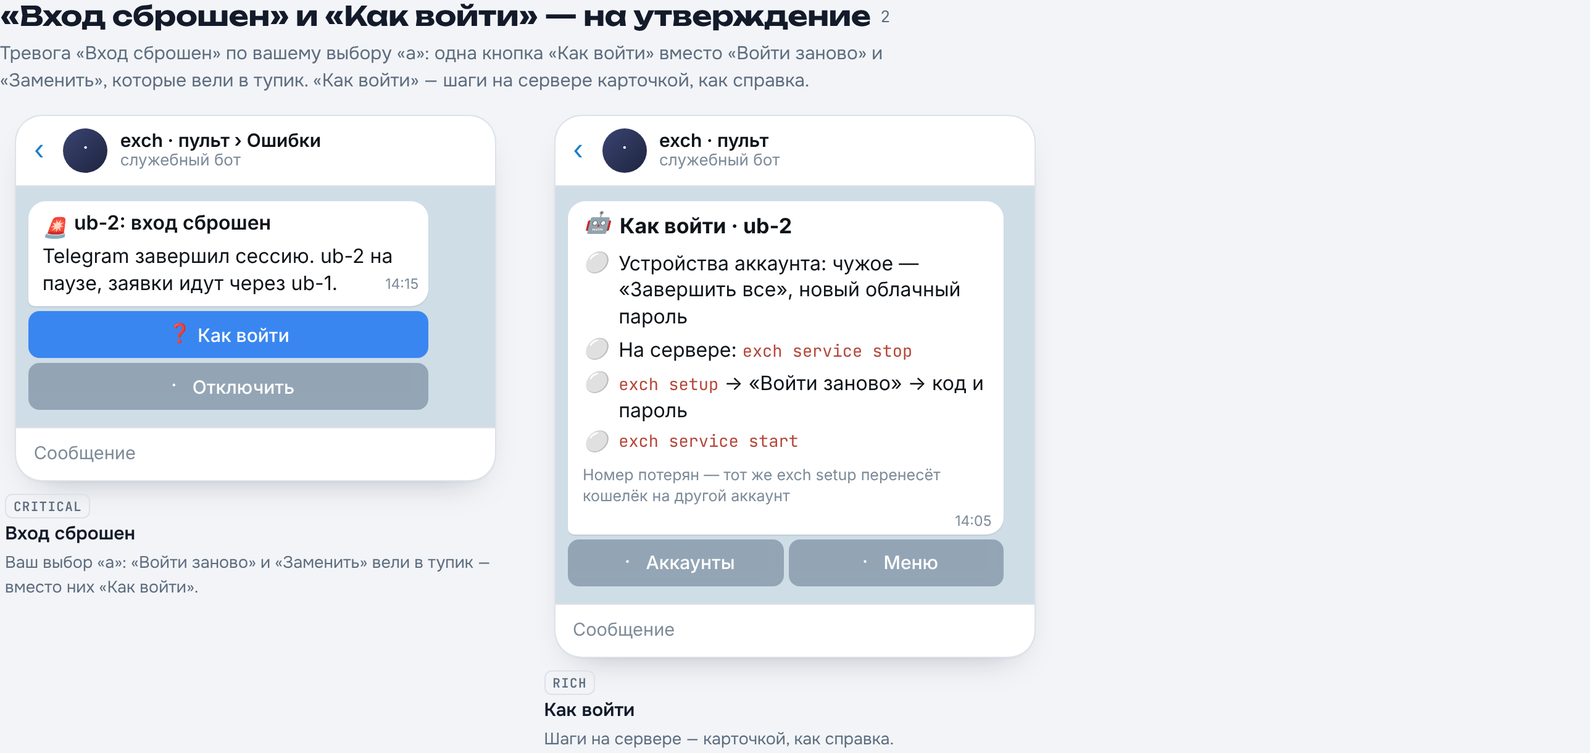
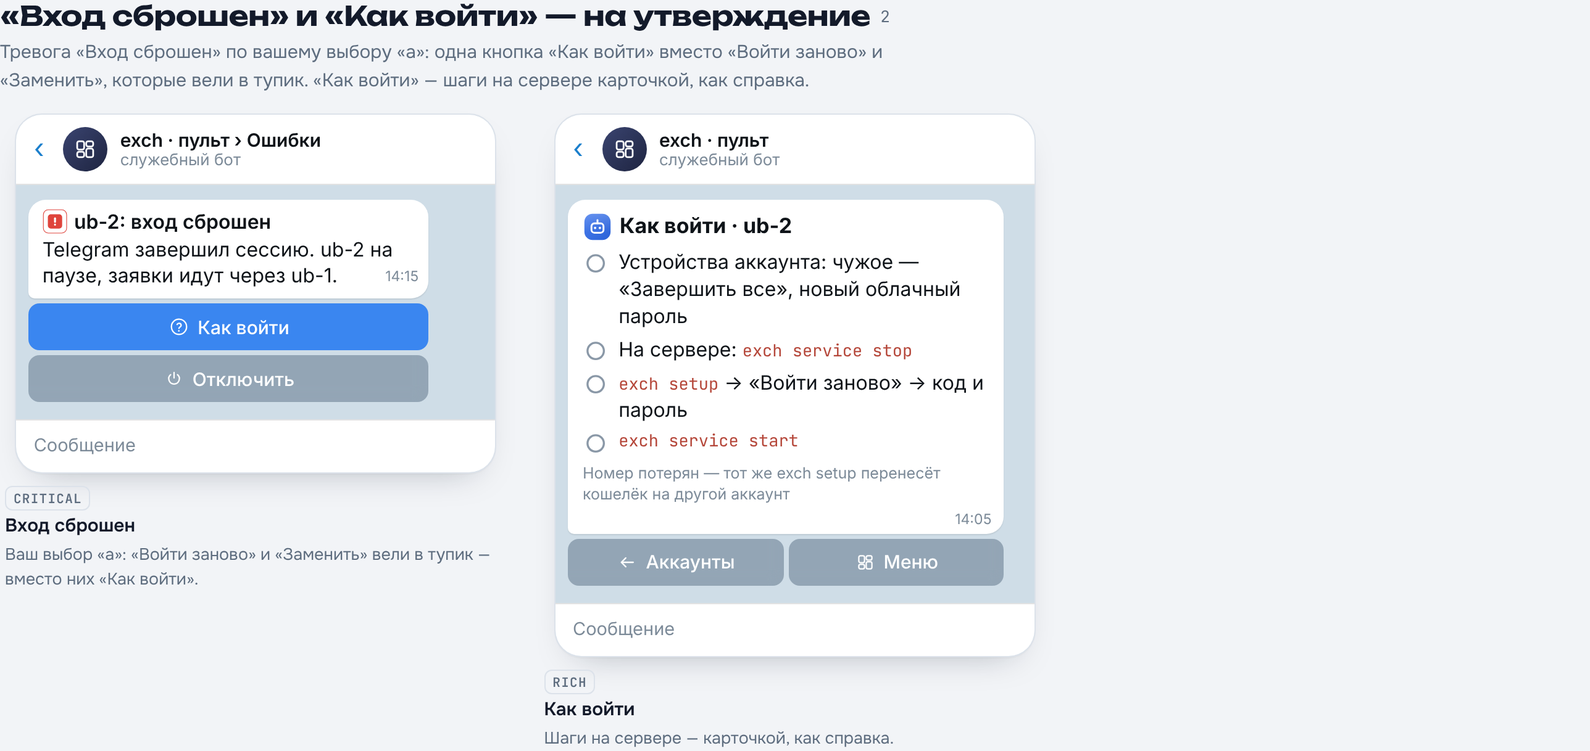
mockups: strict approval-picture tooling; re-render stuck refunds and login pictures with premium emoji
The previous pictures fell back to plain emoji: lottie came from cdnjs, which the
screenshot environment cannot reach, and the warning was missed. proposal.py now
inlines lottie and refuses missing emoji; shot.js fails on any unmounted icon or
page error. The stuck refunds group is rebuilt from approved screens, changing
only what the fix needs.

Claude-Session: https://claude.ai/code/session_01XxwgBqYmuSK6TkTfATkdCq

diff --git a/exchanger/docs/mockups/widgets/stuck-refunds.js b/exchanger/docs/mockups/widgets/stuck-refunds.js
@@ -1,17 +1,19 @@
-  { group: 'Застрявшие переплата и возврат — на утверждение (Д-19.1, Д-19.11)', lead: 'Сейчас: чек на переплату не создался — клиенту навсегда «возвращаю», в пульте кнопок нет; неясный возврат в «Разборе» нельзя закрыть найденным чеком — только «вернуть ещё раз» или «закрыть без выплаты». Ниже — что будет. Остальное как в утверждённых экранах.', items: [
-    { t: 'Клиенту: переплата задерживается', n: 'Было: «Лишние 8.75 возвращаю чеком xRocket» — навсегда. Теперь правда, где деньги. Когда оператор вернёт, это же сообщение станет утверждённым «Переплата» с «Забрать».',
-      m: [B(`{done} <b>Счёт оплачен</b> · <code>50.00</code> USDT\nЛишние <code>8.75</code> USDT вернём чеком xRocket. Возврат задерживается — его проверяет оператор. Деньги у нас, делать ничего не нужно.`, [[['Поддержка', 'support']]], { time: '14:13', edited: true })] },
-    { t: 'Тревога: переплата не вернулась', tag: 'critical', topic: 'Ошибки', n: 'Админу и владельцу, со звуком, повторяется до «Принял». Заявка — в «Разборе» строкой «переплата не вернулась». Если чек точно не создан, вторая строка — «кошелёк ответил: не хватает денег» и т. п.', bot: 'ops',
-      m: [B(`{alarm} <b>Переплата не вернулась · Q1W2E3R4T5</b>\nСчёт оплачен, лишние <code>8.75</code> USDT. Чек xRocket — исход неясен: кошелёк не ответил на нажатие, чек мог создаться.\nДеньги клиента у нас, выплаты xRocket на паузе.`, [[['Открыть', 'order', 'primary']], [['Принял', 'ack']]], { time: '14:14' })] },
-    { t: 'Карточка заявки: переплата', tag: 'rich', n: 'Заявка выполнена, но переплата не вернулась. Кнопки — админу и владельцу. «Вернуть переплату» — новый чек; «Чек уже есть» — ссылка из «Мои чеки», клиенту уходит «Забрать».', bot: 'ops',
-      m: [R(`<h3>Заявка <code>Q1W2E3R4T5</code></h3><p>{warn} <b>Переплата не вернулась</b> · 2 мин · счёт CryptoBot · ub-1</p><div class="tw"><table><tr><td>Клиент</td><td class="r"><a>51234567</a> · 4 обмена</td></tr><tr><td>Принято</td><td class="r">60.00 xRocket</td></tr><tr><td>Счёт</td><td class="r">50.00 CryptoBot</td></tr><tr><td>Комиссия</td><td class="r">1.25 · 2.5&nbsp;%</td></tr><tr><td>Переплата</td><td class="r">8.75 xRocket · <b>не вернулась</b></td></tr></table></div><details><summary>Операции · 3</summary><pre>ord-…-intake-1   done
+  { group: 'Застрявшие переплата и возврат — на утверждение (Д-19.1, Д-19.11)', lead: 'Каждый экран — утверждённый (имя образца в подписи), изменено только то, что сказано. Сейчас: чек на переплату не создался — клиенту навсегда «возвращаю», в пульте кнопок нет; неясный возврат в «Разборе» нельзя закрыть найденным чеком — только «вернуть ещё раз» или «закрыть без выплаты».', items: [
+    { t: 'Клиенту: переплата у меня', n: 'Образец — «Не та монета» и «Ручная проверка»: значок «у меня», деньги моно, тихий голос курсивом. Правится то же сообщение «Счёт оплачен».',
+      m: [B(`{with_me} <b>Счёт оплачен</b> · <code>50.00</code> USDT\nЛишние <code>8.75</code> USDT у меня — оператор вернёт их чеком xRocket.\n<i>Ничего делать не нужно — напишу сюда.</i>`, [[['Поддержка', 'support']]], { time: '14:13', edited: true })] },
+    { t: 'Клиенту: переплата вернулась', tag: 'утверждено', n: 'Утверждённый экран «Переплата» без изменений — новым сообщением (прошло больше минуты), чтобы пришло уведомление.',
+      m: [B(`{done} <b>Счёт оплачен</b> · <code>50.00</code> USDT\nЛишние <code>8.75</code> USDT вернул чеком xRocket.`, [[['Забрать 8.75&nbsp;USDT', 'claim', 'success', 'u']]], { time: '14:31' })] },
+    { t: 'Нужен разбор · переплата', tag: 'critical', topic: 'Ошибки', n: 'Образец — «Алерт и „Принял“»: та же тревога «Нужен разбор», другая третья строка. Повторы и «Принял» — как в образце.', bot: 'ops',
+      m: [B(`{alarm} <b>Нужен разбор</b> · <code>Q1W2E3R4T5</code>\nСчета CB · 60.00 → 50.00 · клиент 51234567\nПереплата 8.75: нет ответа 30 с, чек не найден\n<bqx>xRocket · 14:13:58 · ответа нет</bqx>`, [[['Открыть', 'order'], ['Взять', 'take', 'primary']], [['Принял', 'ack']]], { time: '14:14' })] },
+    { t: 'Карточка заявки · переплата', tag: 'rich', n: 'Образец — «Карточка заявки». Заявка выполнена: счёт оплачен. Строка-подсказка, как у сверки, и строка «Переплата» в таблице. Кнопки как у разбора: «Повторить выплату» → «Повторить чек переплаты», «Выплачено» → «Чек выдан».', bot: 'ops',
+      m: [R(`<h3>Заявка <code>Q1W2E3R4T5</code></h3><p>{done} <b>Выполнена</b> · 1 мин · Счета CB · ub-1</p><blockquote>{dot_act} Переплата не вернулась: чек xRocket — нет ответа, в истории не найден</blockquote><div class="tw"><table><tr><td>Клиент</td><td class="r"><a>51234567</a> · 4 обмена</td></tr><tr><td>Принято</td><td class="r">60.00 xRocket</td></tr><tr><td>Счёт</td><td class="r">50.00 CryptoBot</td></tr><tr><td>Комиссия</td><td class="r">1.25 · 2.5&nbsp;%</td></tr><tr><td>Переплата</td><td class="r">8.75 xRocket</td></tr></table></div><details open><summary>Ход · 4</summary><ul class="tasks"><li>{step_done}<span>14:12:40 · чек принят</span></li><li>{step_done}<span>14:13:21 · счёт оплачен</span></li><li>{dot_act}<span>14:13:58 · чек переплаты: нет ответа 30 с</span></li><li>{manual}<span>14:14:30 · сверка: чек не найден</span></li></ul></details><details><summary>Операции · 3</summary><pre>ord-…-intake-1   done
 ord-…-pay        done
-ord-…-excess     unknown</pre></details><details><summary>Ответ кошелька</summary><pre>xRocket, 14:13:58 — нет ответа на «✅ Подтверждаю»</pre></details>`, [[['Взять', 'take', 'primary'], ['Написать', 'support']], [['Вернуть переплату', 'refund']], [['Чек уже есть — ссылка', 'done']], [['Разбор', 'back'], ['Меню', 'dash']]])] },
-    { t: 'Подтверждение', tag: 'кнопка на 60 с', n: 'Как у «Повторить выплату». Исход прежнего чека неясен — подтверждение «проверил: чека нет»; сверка видела, что чек прошёл, — повтор не даст.', bot: 'ops',
-      m: [B(`<b>Вернуть переплату?</b>\nНовый чек xRocket на <code>8.75</code> USDT клиенту 51234567.\nПрежняя операция <code>ord-…-excess</code> → <code>failed</code>. <b>Необратимо.</b>\n{warn} Исход прежнего чека неясен. Подтверждая, вы утверждаете: <b>чек не создан</b> — проверено в «Мои чеки» xRocket.\n<i>Кнопка действует 60 с.</i>`, [[['Проверил — подтверждаю', 'ack', 'danger'], ['Отмена', 'close']]], { time: '14:16' })] },
-    { t: 'Карточка заявки: неясный возврат', tag: 'rich', n: 'Утверждённая карточка «Ручной разбор». Когда неясен возврат, «Выплачено» называется «Возврат выдан»: ссылка на найденный чек возврата — клиенту «Возврат готов» с «Забрать». Сейчас эта кнопка отказывает, и выход — только второй возврат.', bot: 'ops',
-      m: [R(`<h3>Заявка <code>${ORD}</code></h3><p>{manual} <b>Ручной разбор</b> · 9 мин · CB → xR · ub-1</p><div class="tw"><table><tr><td>Клиент</td><td class="r"><a>51234567</a> · 23 обмена</td></tr><tr><td>Принято</td><td class="r">0.50 CryptoBot</td></tr><tr><td>Возврат</td><td class="r">0.50 CryptoBot</td></tr><tr><td>Причина</td><td class="r">меньше минимума 1.00</td></tr></table></div><details open><summary>Ход · 3</summary><ul class="tasks"><li>{step_done}<span>14:04:02 · чек принят</span></li><li>{dot_act}<span>14:04:05 · чек возврата: сумма отправлена, нет ответа 30 с</span></li><li>{manual}<span>14:04:37 · сверка: чек не найден в истории</span></li></ul></details><details><summary>Операции · 2</summary><pre>ord-…-intake-1   done
+ord-…-excess     unknown</pre></details>`, [[['Взять', 'take', 'primary'], ['Написать', 'support']], [['Повторить чек переплаты', 'refresh']], [['Чек выдан', 'done']], [['Разбор', 'back'], ['Меню', 'dash']]])] },
+    { t: 'Подтверждение', tag: 'кнопка на 60 с', n: 'Образец — «Подтверждение» в том виде, что сейчас в боте при неясном исходе: строка «прежняя попытка — исход неясен», на красной кнопке — что и сколько.', bot: 'ops',
+      m: [B(`<b>Повторить чек переплаты?</b>\nНовый чек xRocket на <code>8.75</code> USDT клиенту 51234567.\nПрежняя попытка 14:13 — исход неясен (<code>ord-…-excess</code>). Подтверждая, вы утверждаете: <b>чек не создан</b> — проверено в кошельке.\n<b>Необратимо.</b> <i>Кнопка действует 60 с.</i>`, [[['Проверил — повторить 8.75', 'done', 'danger']], [['Отмена', 'close']]], { time: '14:16' })] },
+    { t: 'Карточка заявки · неясный возврат', tag: 'rich', n: 'Образец — «Карточка заявки» на разборе. Неясен возврат, а не выплата: «Повторить выплату» убрана (выплаты не было), «Выплачено» → «Возврат выдан». «Вернуть» — как в образце: новый возврат, только после «проверил: чека нет». Сейчас «Выплачено» здесь отказывает, и выход — только второй возврат.', bot: 'ops',
+      m: [R(`<h3>Заявка <code>${ORD}</code></h3><p>{manual} <b>Ручной разбор</b> · 9 мин · CB → xR · ub-1</p><div class="tw"><table><tr><td>Клиент</td><td class="r"><a>51234567</a> · 23 обмена</td></tr><tr><td>Принято</td><td class="r">0.50 CryptoBot</td></tr><tr><td>Возврат</td><td class="r">0.50 CryptoBot</td></tr><tr><td>Причина</td><td class="r">меньше минимума</td></tr></table></div><details open><summary>Ход · 3</summary><ul class="tasks"><li>{step_done}<span>14:04:02 · чек принят</span></li><li>{dot_act}<span>14:04:05 · чек возврата: нет ответа 30 с</span></li><li>{manual}<span>14:04:37 · сверка: чек не найден</span></li></ul></details><details><summary>Операции · 2</summary><pre>ord-…-intake-1   done
 ord-…-refund     unknown</pre></details>`, [[['Взять', 'take', 'primary'], ['Написать', 'support']], [['Вернуть', 'refund'], ['Возврат выдан', 'done']], [['Закрыть без выплаты', 'trash', 'danger']], [['Разбор', 'back'], ['Меню', 'dash']]])] },
-    { t: 'Ссылка на чек', n: 'После «Возврат выдан» или «Чек уже есть». Ссылка проверяется: чек этого кошелька, на эту сумму.', bot: 'ops',
-      m: [B(`<b>Возврат выдан · ${ORD}</b>\nПришлите ссылку на чек возврата из «Мои чеки» CryptoBot — <code>t.me/send?start=CQ…</code> на <code>0.50</code> USDT. Клиент получит её кнопкой «Забрать».`, [[['Отмена', 'close']]], { time: '14:15' })] },
+    { t: 'Ссылка на чек', n: 'Образец — «Контрольная строка»: что сделать и что ввести. После «Возврат выдан» и «Чек выдан». Ссылку проверяю: чек этого кошелька, на эту сумму; в пульте она дальше — под спойлером.', bot: 'ops',
+      m: [B(`<b>Возврат выдан</b> · <code>${ORD}</code>\nКлиент получит чек кнопкой «Забрать».\nПришлите ссылку на чек CryptoBot на <code>0.50</code> USDT из «Мои чеки».`, [[['Отмена', 'close']]], { time: '14:15' })] },
   ] },

diff --git a/exchanger/tools/mockups/shot.js b/exchanger/tools/mockups/shot.js
@@ -1,0 +1,30 @@
+// Снимок первой группы вкладки «Пульт» (её вставляет proposal.py). Отказ — если на странице
+// ошибка, нет lottie или хоть один значок не стал премиум-эмодзи: такая картинка владельцу не уходит.
+const { chromium } = require('playwright');
+const [page_path, out] = process.argv.slice(2);
+(async () => {
+  const b = await chromium.launch();
+  const p = await b.newPage({ viewport: { width: 1400, height: 5200 }, deviceScaleFactor: 2 });
+  const errs = [];
+  p.on('pageerror', (e) => errs.push(String(e)));
+  p.on('requestfailed', (r) => errs.push('request ' + r.url()));
+  await p.goto('file://' + page_path + '#admin');
+  await p.evaluate(() => { for (const e of document.querySelectorAll('*')) { const cs = getComputedStyle(e); if (cs.position === 'sticky' || cs.position === 'fixed') e.style.position = 'static'; } });
+  await p.evaluate(() => document.querySelector('#g0').scrollIntoView());
+  let left = -1;
+  for (let i = 0; i < 40; i++) {
+    await p.waitForTimeout(500);
+    left = await p.evaluate(() => [...document.querySelectorAll('#g0 .ce')].filter((el) => !el._a).length);
+    if (left === 0) break;
+  }
+  const total = await p.evaluate(() => document.querySelectorAll('#g0 .ce').length);
+  const lottie = await p.evaluate(() => typeof window.lottie);
+  const el = await p.$('#g0');
+  await el.screenshot({ path: out });
+  await b.close();
+  console.log(`значков ${total}, не отрисовано ${left}, lottie ${lottie}, ошибок ${errs.length}`);
+  if (left !== 0 || lottie !== 'object' || errs.length) {
+    console.error(errs.join('\n'));
+    process.exit(1);
+  }
+})();

diff --git a/exchanger/tools/mockups/proposal.py b/exchanger/tools/mockups/proposal.py
@@ -1,0 +1,48 @@
+"""Страница макетов с новой группой «на утверждение» — для картинки владельцу.
+
+    EXCH_JSON=1 node tools/emoji/tgs.js /tmp/emoji            # премиум-эмодзи из исходников
+    npm pack lottie-web@5.12.2 && tar -xzf lottie-web-5.12.2.tgz   # та же версия, что в макетах
+    python3 -I tools/mockups/proposal.py docs/mockups/widgets/<группа>.js /tmp/emoji \
+        package/build/player/lottie_light.min.js /tmp/page.html
+    node tools/mockups/shot.js /tmp/page.html docs/mockups/widgets/<группа>.png
+
+Группа встаёт первой во вкладке «Пульт» (как в утверждённой странице), lottie встраивается в
+страницу: снимок не зависит от сети. Эмодзи — все из tools/emoji, иначе отказ.
+"""
+
+import json
+import os
+import subprocess
+import sys
+
+HERE = os.path.dirname(os.path.abspath(__file__))
+REPO = os.path.normpath(os.path.join(HERE, '..', '..'))
+CDN = '<script src="https://cdnjs.cloudflare.com/ajax/libs/lottie-web/5.12.2/lottie_light.min.js"></script>'
+
+
+def main():
+    group_js, emoji_dir, lottie_js, out = sys.argv[1:5]
+    tpl = open(os.path.join(REPO, 'docs/mockups/template.html'), encoding='utf-8').read()
+    anchor = 'const ADMIN = [\n'
+    if tpl.count(anchor) != 1 or tpl.count(CDN) != 1:
+        sys.exit('template.html изменился: нет места для группы или подключения lottie')
+    tpl = tpl.replace(anchor, anchor + open(group_js, encoding='utf-8').read(), 1)
+    lottie = open(lottie_js, encoding='utf-8').read()
+    tpl = tpl.replace(CDN, '<script>' + lottie.replace('</', '<\\/') + '</script>', 1)
+    icons = os.path.join(REPO, 'tools/emoji/icons.js')
+    sets = json.loads(subprocess.check_output(['node', '-e', 'const m=require(process.argv[1]);process.stdout.write(JSON.stringify({color:Object.keys(m.COLOR),mono:Object.keys(m.MONO),labels:m.LABELS}))', icons]))
+    emoji = {}
+    for kind in ('color', 'mono'):
+        for name in sets[kind]:
+            path = os.path.join(emoji_dir, kind, name + '.json')
+            if not os.path.isfile(path):
+                sys.exit(f'нет эмодзи {kind}/{name}: соберите заново tools/emoji/tgs.js')
+            emoji[f'{kind}/{name}'] = json.load(open(path, encoding='utf-8'))
+    tpl = tpl.replace('/*EMOJI*/', json.dumps(emoji, separators=(',', ':'), ensure_ascii=False).replace('</', '<\\/'))
+    tpl = tpl.replace('/*LABELS*/', json.dumps(sets['labels'], ensure_ascii=False))
+    open(out, 'w', encoding='utf-8').write(tpl)
+    print(f'{len(emoji)} эмодзи, {len(tpl.encode()) // 1024} КБ: {out}')
+
+
+if __name__ == '__main__':
+    main()

diff --git a/exchanger/tools/mockups/README.md b/exchanger/tools/mockups/README.md
@@ -1,0 +1,19 @@
+# Картинки «на утверждение»
+
+Новый или изменённый экран сначала показывается владельцу картинкой в стиле утверждённых макетов,
+код — только после его «да» (правило 20–21 CLAUDE.md).
+
+1. Группа — `docs/mockups/widgets/<имя>.js`. Каждый экран — копия утверждённого из
+   `docs/mockups/template.html` (в подписи — имя образца), меняется только то, что нужно; затем
+   сверка с «Правилами интерфейса» (вкладка «Правила» в макетах) строка за строкой.
+2. Эмодзи и lottie (один раз за сессию):
+   `EXCH_JSON=1 node tools/emoji/tgs.js /tmp/emoji`;
+   `npm pack lottie-web@5.12.2 && tar -xzf lottie-web-5.12.2.tgz`.
+3. `python3 -I tools/mockups/proposal.py docs/mockups/widgets/<имя>.js /tmp/emoji package/build/player/lottie_light.min.js /tmp/page.html`
+4. `node tools/mockups/shot.js /tmp/page.html docs/mockups/widgets/<имя>.png` — отказ, если хоть
+   один значок не стал премиум-эмодзи, нет lottie или на странице ошибка. Такая картинка не
+   отправляется.
+5. Посмотреть картинку глазами: обрезанные кнопки, переносы, лишние строки.
+
+20.11: две картинки ушли владельцу без премиум-эмодзи — lottie грузилась с cdnjs, а из среды
+снимка он закрыт; предупреждение скрипта было пропущено. Отсюда встраивание и жёсткий отказ.
